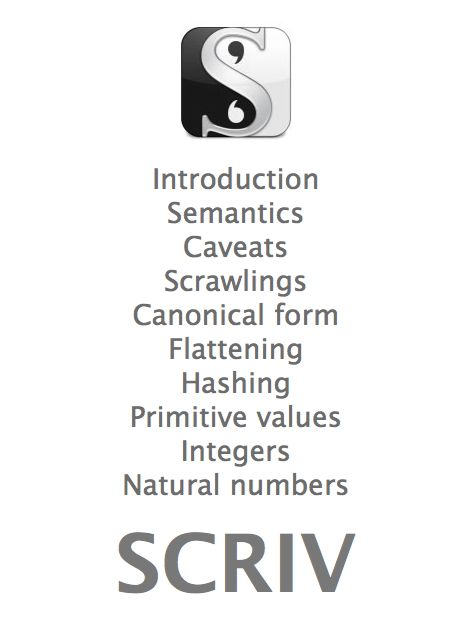
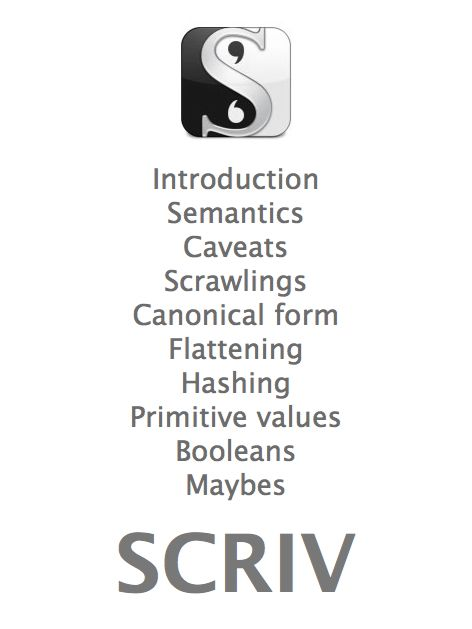
Functions for working with backreferences.

Changed region(s): [[0.2373, 0.6948, 0.7415, 0.8156]]

diff --git a/Documentation/Modern Data.scriv/QuickLook/Preview.html b/Documentation/Modern Data.scriv/QuickLook/Preview.html
@@ -35,7 +35,7 @@ A self-describing data format is a format like XML, JSON, or Common Lisp’s s-e
 <li>
 <p class="binderItem"><strong>Semantics</strong><br/>In Modern Data, the fundamental in-memory datatype is the “modern node”, which is a representation of, loosely, either a value or a type.  If we wish to specify further, we may occasionally refer to a “modern type” or “modern value”, but these concepts do not map to actual host-language datatypes; only “modern node” does.<br/>
 <br/>
-The operations on a modern node are serialization, deserialization, and evaluation.  Serialization is performed on a modern node in some “modern context”, and produces a strea...</p>
+The operations on a modern node are serialization and deserialization.  Serialization is performed on a stream of modern nodes in some “modern context”, and produces a stream ...</p>
 </li>
 <hr/>
 <ul>
@@ -72,6 +72,12 @@ It is important to note that each node, independently, has its own cano...</p>
 <hr/>
 <ul>
 <li>
+<p class="binderItem"><strong>Booleans</strong></p>
+</li>
+<li>
+<p class="binderItem"><strong>Maybes</strong></p>
+</li>
+<li>
 <p class="binderItem"><strong>Integers</strong></p>
 </li>
 <li>
@@ -83,7 +89,7 @@ It is important to note that each node, independently, has its own cano...</p>
 <hr/>
 <ul>
 <li>
-<p class="binderItem"><strong>80-bit and 128-bit values</strong><br/>It is worth noting that, while many platforms support 128-bit float values, many others do not.  Even when the compiler does, often the system library does not.  This is, not least, because there are no standardized names for the functions - though GNU libquadmath uses the “q” suffix on the ISO C99 base names.  The C type which would be the most likely candidate to be a 128-bit float, long double, is actually an 80-bit float on most Intel-related platforms, while non-Intel platforms seldom suppo...</p>
+<p class="binderItem"><strong>80-bit and 128-bit values</strong><br/>It is worth noting that, while many platforms support 128-bit float values, many others do not.  Even when the compiler does, often the system library does not; not least because there are no standardized names for the functions (though GNU libquadmath uses the “q” suffix on the ISO C99 base names).  Modern Data is of course primarily an interchange format, and only secondarily a set of libraries; therefore, it does not try to resolve this difficulty!  Instead of addressing the problem, the libr...</p>
 </li>
 </ul>
 <hr/>
@@ -752,6 +758,12 @@ modern_node_get_let_content<br/>
  modern *value);</p>
 </li>
 <li>
+<p class="binderItem"><strong>modern_node_get_backreference_index</strong><br/>uint64_t<br/>
+modern_node_get_backreference_index<br/>
+(modern_library *library,<br/>
+ modern *value);</p>
+</li>
+<li>
 <p class="binderItem"><strong>modern_node_get_builtin_identifier</strong><br/>uint16_t<br/>
 modern_node_get_builtin_identifier<br/>
 (modern_library *library,<br/>
@@ -1316,6 +1328,13 @@ modern_node_set_let_content<br/>
 (modern_library *library,<br/>
  modern *value,<br/>
  modern *content);</p>
+</li>
+<li>
+<p class="binderItem"><strong>modern_node_set_backreference_index</strong><br/>void<br/>
+modern_node_set_backreference_index<br/>
+(modern_library *library,<br/>
+ modern *value,<br/>
+ uint64_t index);</p>
 </li>
 <li>
 <p class="binderItem"><strong>modern_node_set_builtin_identifier</strong><br/>void<br/>

diff --git a/C/modern.h b/C/modern.h
@@ -889,6 +889,9 @@ extern modern *modern_node_get_let_item
 extern modern *modern_node_get_let_content
   (modern_library *library,
    modern *value);
+extern uint64_t modern_node_get_backreference_index
+  (modern_library *library,
+   modern *value);
 extern uint16_t modern_node_get_builtin_identifier
   (modern_library *library,
    modern *value);
@@ -1157,6 +1160,10 @@ extern void modern_node_set_let_content
   (modern_library *library,
    modern *value,
    modern *content);
+extern void modern_node_set_backreference_index
+  (modern_library *library,
+   modern *value,
+   uint64_t index);
 extern void modern_node_set_builtin_identifier
   (modern_library *library,
    modern *value,
